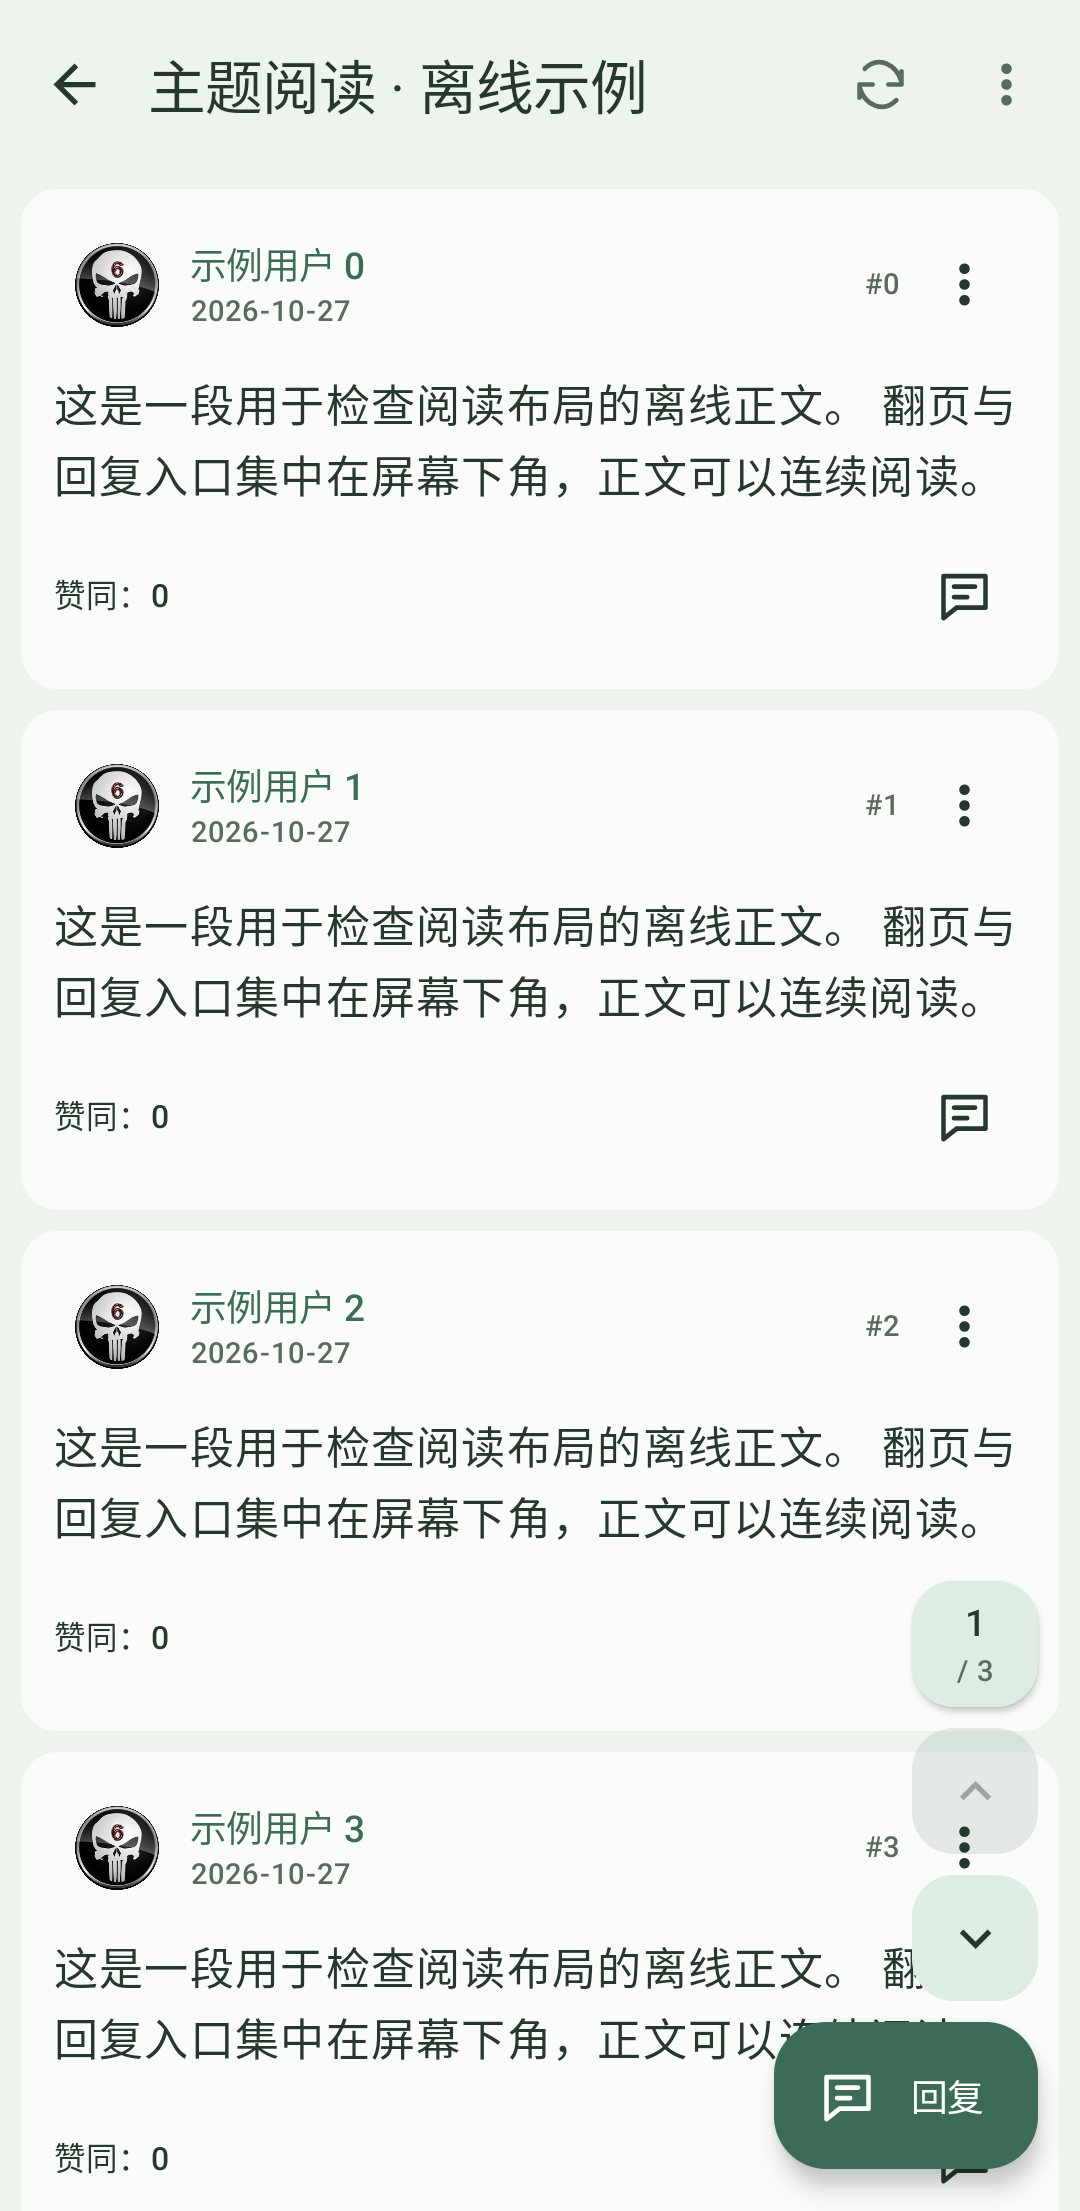
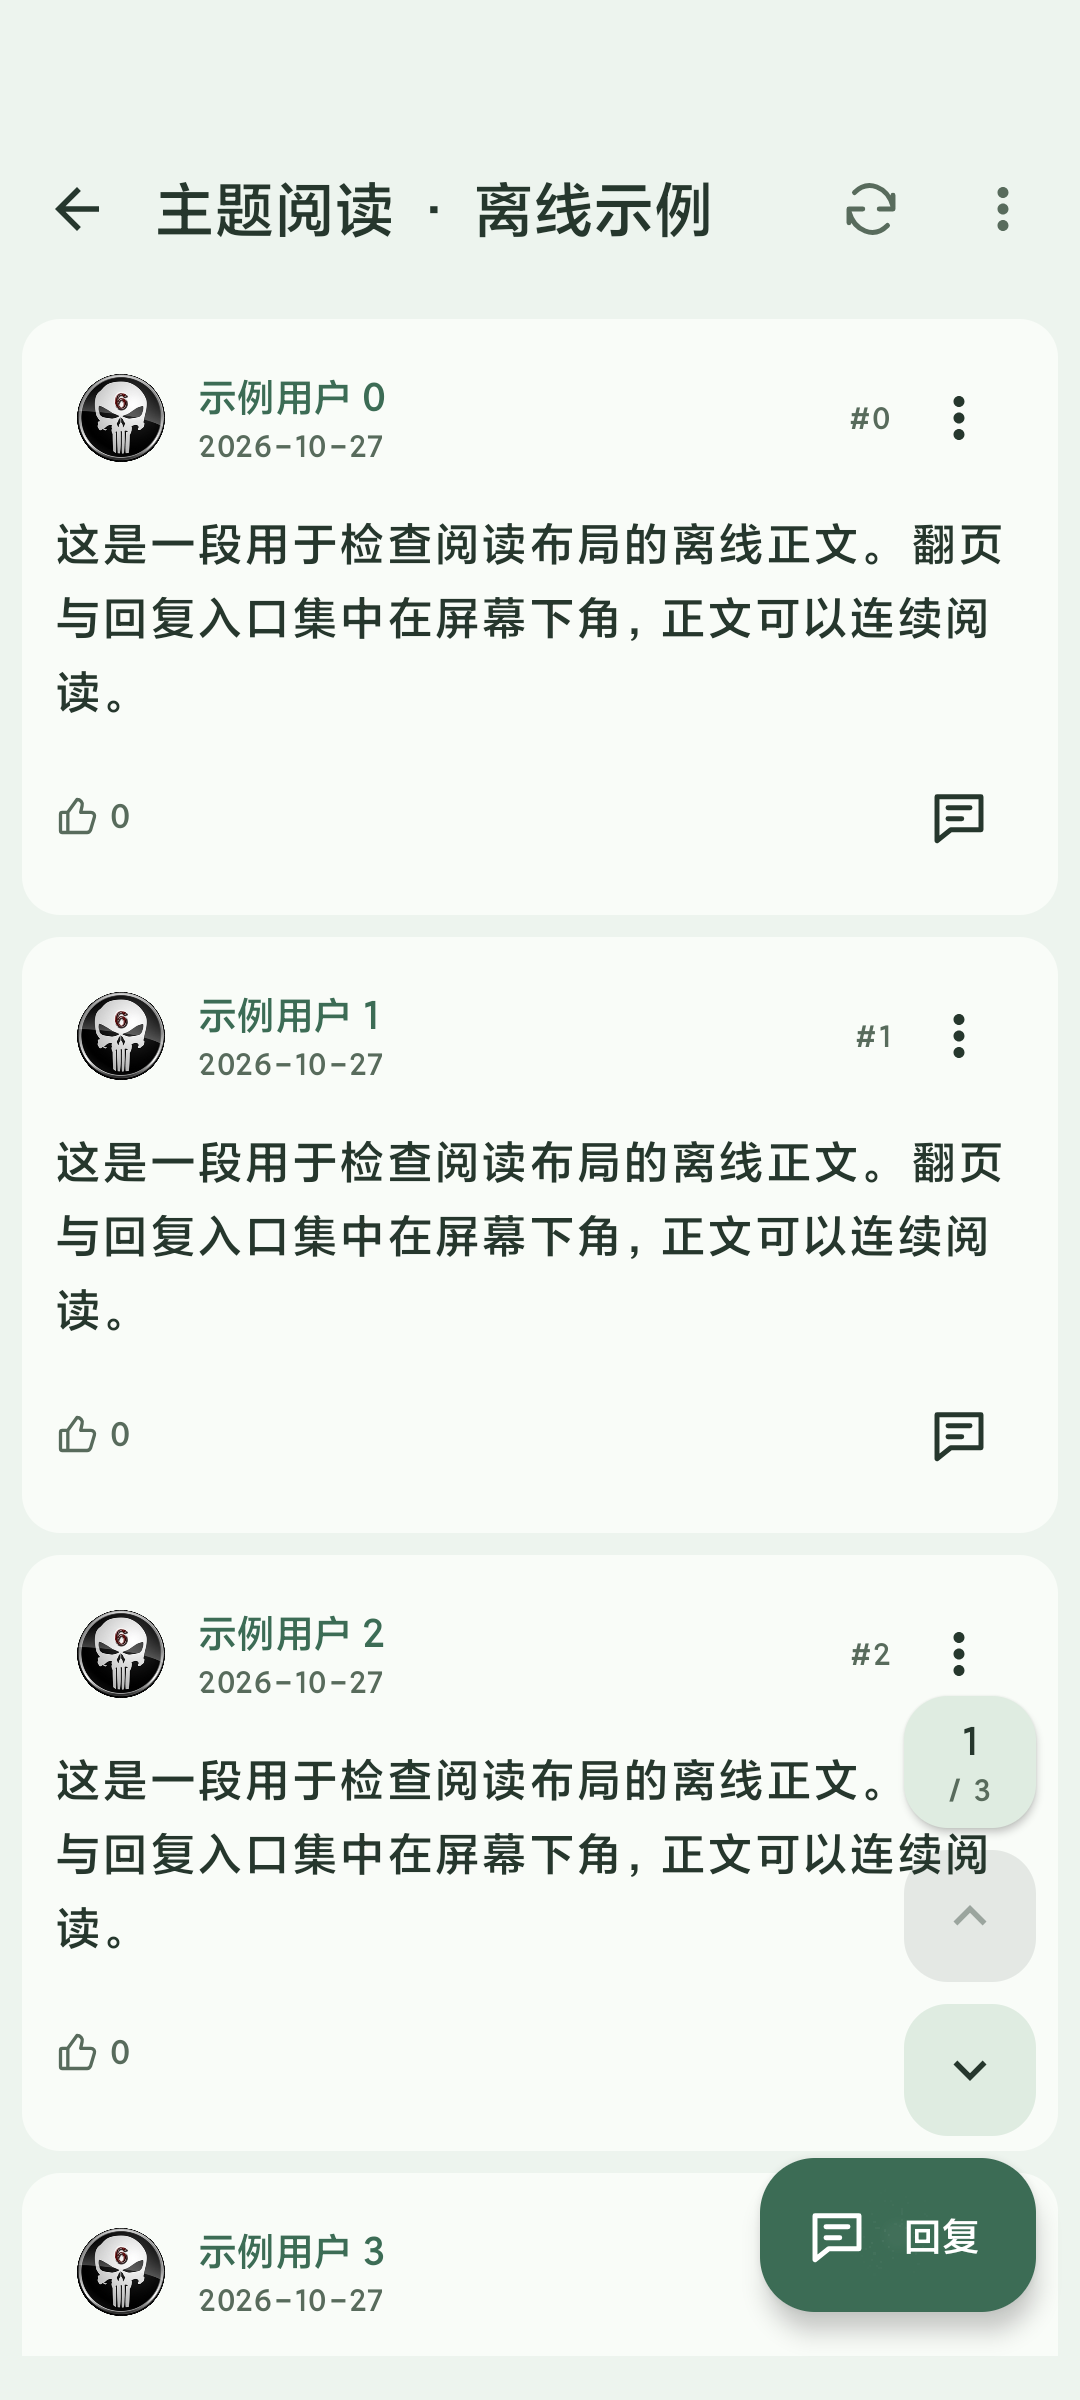
更新界面预览截图
在 Android 16 实机上用离线示例数据重新生成 docs/previews/implemented 中的 12 张截图，
包含 4.3.1 的新首页底栏；README 更新截图说明并从剩余工作中移除该项。

diff --git a/README.md b/README.md
@@ -35,7 +35,7 @@ NGA 论坛（bbs.nga.cn）的开源 Android 客户端，提供版块浏览、主
   </tr>
 </table>
 
-截图由设备测试使用离线示例数据生成，不包含真实账号内容。截图生成于 4.3.0，首页底栏与字体设置页已在 4.3.1 更新，见[剩余工作](#剩余工作)。
+截图由设备测试在 Android 16 实机上使用离线示例数据生成，不包含真实账号内容。
 
 ## 功能与页面
 
@@ -65,7 +65,6 @@ NGA 论坛（bbs.nga.cn）的开源 Android 客户端，提供版块浏览、主
 
 - **Lint 警告**：无错误，仍有 98 项警告，主要为可改用 KTX 写法、硬编码文字、链接过滤器写法与可能泄漏的静态字段。
 - **测试代码**：单元测试中仍有 14 个 Java 文件（`NgaJson` 特征测试、正文解码 golden 测试等），可按需转为 Kotlin。
-- **预览截图**：首页底栏与字体设置页已更新，`docs/previews/implemented` 中的截图需重新生成。
 - **设备验证**：Android 17 模拟器存在启动挂起，尚未完成该版本的设备测试；登录、发帖、上传、点赞、收藏、举报、签名、头像等服务端操作无法自动化测试，发布前需用测试账号人工检查。
 
 ## 开发环境
